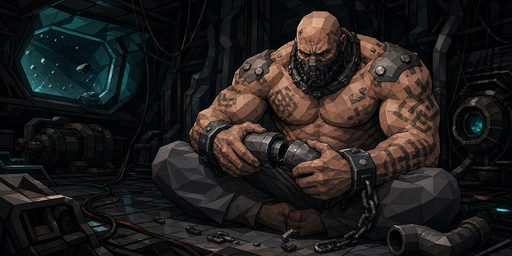
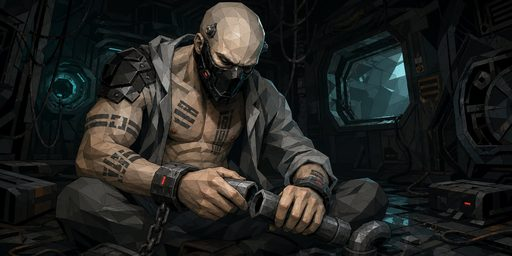
nemesis: Convict card art redone to match the original look (10 cards)

diff --git a/nemesis/client/cards.js b/nemesis/client/cards.js
@@ -28,7 +28,7 @@ const ART_DECKS = {
     ceo: ['backupBattery', 'command', 'computerSkills', 'demolition', 'fastRepairs', 'interruption', 'protect', 'rest', 'roboticPunch', 'search'],
     labrat: ['demolition', 'feelOfDark', 'inconspicuous', 'interruption', 'repairs', 'rest', 'search', 'sensitiveHearing', 'shriek', 'weirdMetabolism'],
     sentry: ['defensePlan', 'demolition', 'facilityTour', 'interruption', 'repairs', 'rest', 'search', 'securityControl', 'stun', 'weakSpot'],
-    convict: ['catchThis', 'demolition', 'duckAndCover', 'interruption', 'intimidate', 'repairs', 'rest', 'search', 'shortTemper'],
+    convict: ['bash', 'catchThis', 'demolition', 'duckAndCover', 'interruption', 'intimidate', 'repairs', 'rest', 'search', 'shortTemper'],
 };
 function cardArt(cardId) {
     const [owner, key] = cardId.split('#')[0].split('.');
